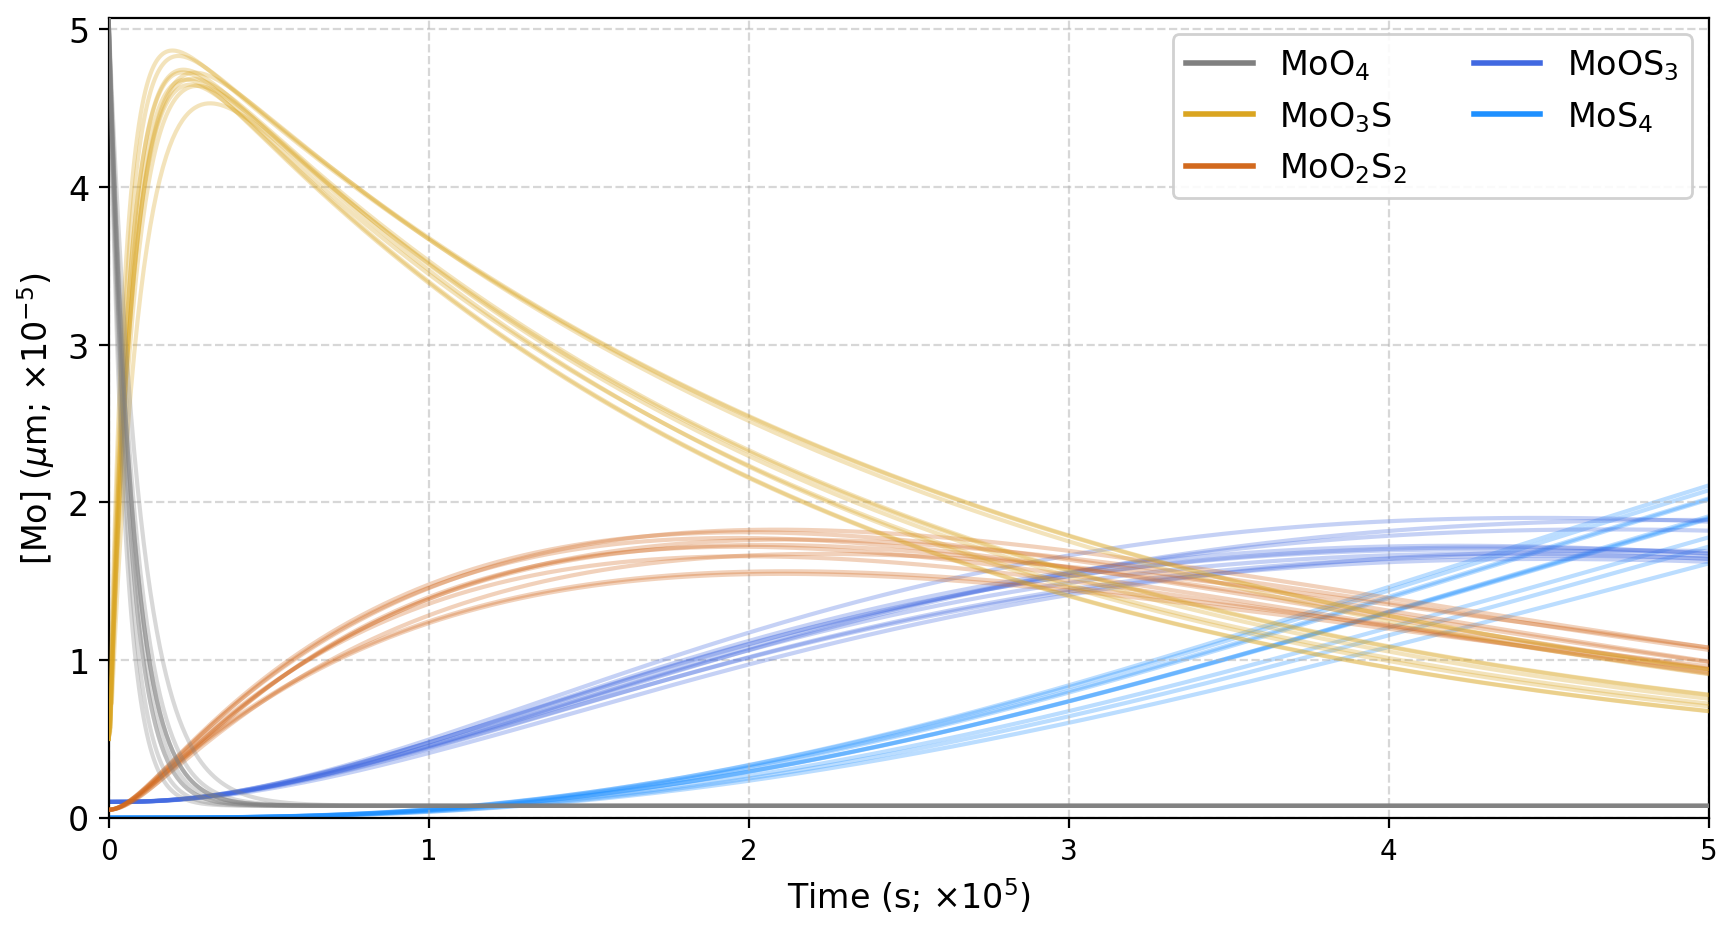
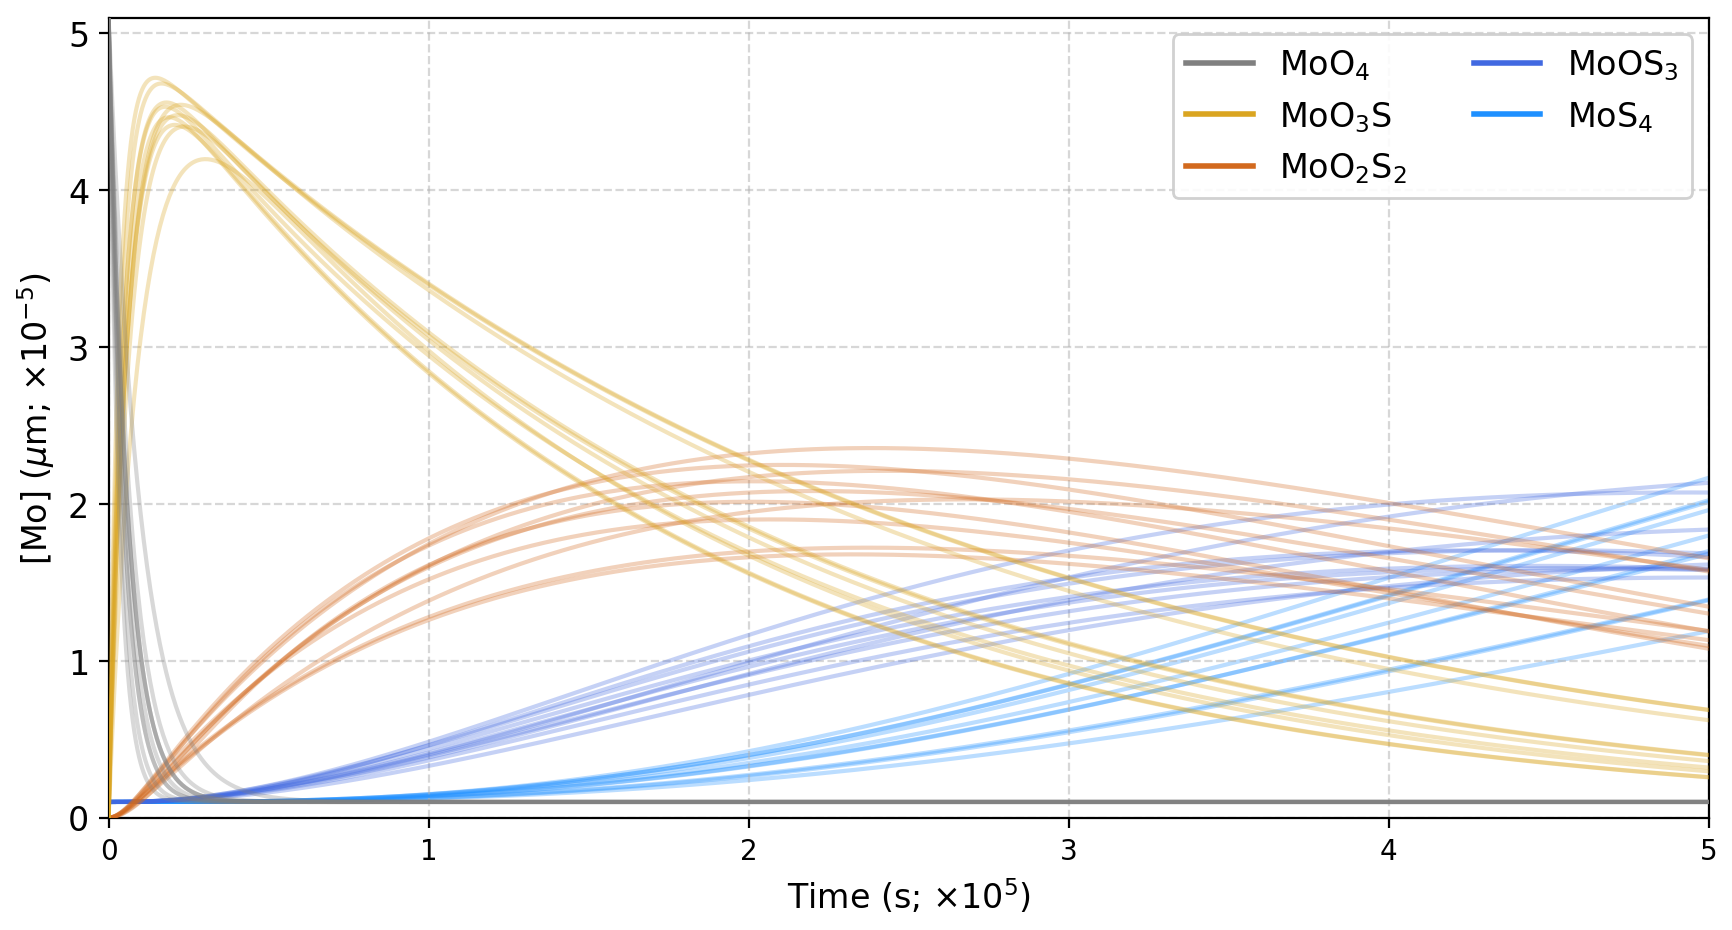
updated equations
more tweaks to the isotope calculations

Changed region(s): [[0.0312, 0.0312, 0.9977, 0.9043], [0.0312, 0.0312, 0.0624, 0.0624]]

diff --git a/kinetic_iso.py b/kinetic_iso.py
@@ -25,8 +25,13 @@ import pylab
 ###############################################################################
 ###############################################################################
 
-
+#get the number of runs for the model
 number_of_samples = int(input('number of iterations?  '))
+
+#get input from user to sulfide values
+User_Mo = float(input('estimated total Mo conc.?  '))
+User_Sulfide = float(input('estimated sulfide value?  '))
+User_pH = int(input('estimated pH value?  '))
 
 
 ###############################################################################
@@ -42,26 +47,27 @@ number_of_samples = int(input('number of iterations?  '))
 #reaction of some thiomolybdate(VI) anions in aqueous solution. Inorg. Chim. Acta
 #and Harmer & Sykes (1980). Kinetics of the Interconversion of Sulfido- and
 #Oxomolybdate(VI) Species MoOxS4-x2- in Aqueous Solutions. Inorganic Chemistry
+
 '''
-ki_low = 9e-5 #k_{01}
-kii_low = 9e-6 #k_{12}
-kiii_low = 9e-6 #k_{23}
-kiiii_low = 2e-5 #K_{34}
+ki_low = 1e-4 #k_{01}
+kii_low = 9e-5 #k_{12}
+kiii_low = 1e-5 #k_{23}
+kiiii_low = 1e-6 #K_{34}
 
 ki_hi = 2e-4
-kii_hi = 2e-5
-kiii_hi = 2e-5
-kiiii_hi = 5e-5
+kii_hi = 2e-4
+kiii_hi = 3e-5
+kiiii_hi = 5e-6
 '''
 
 ki_low = 1e-4 #k_{01}
 kii_low = 4e-6 #k_{12}
-kiii_low = 5e-6 #k_{23} 9e-7
-kiiii_low = 3e-6 #K_{34} 8e-7 #K_{34}
+kiii_low = 3e-6 #k_{23} 9e-7
+kiiii_low = 2e-6 #K_{34} 8e-7 #K_{34}
 
-ki_hi = 2e-4
-kii_hi = 5e-6
-kiii_hi = 6e-6
+ki_hi = 3e-4
+kii_hi = 6e-6
+kiii_hi = 5e-6
 kiiii_hi = 4e-6
 
 ki_range = np.linspace(ki_low,ki_hi,10)
@@ -69,15 +75,27 @@ kii_range = np.linspace(kii_low,kii_hi,10)
 kiii_range = np.linspace(kiii_low,kiii_hi,10)
 kiiii_range = np.linspace(kiiii_low,kiiii_hi,10)
 
-#note: no kv for E needed
-#note: ki>kii>kiii>kiiii
-
-#Fractionation factor derived from expertimental data
+#Fractionation factor calculated from expertimental data
 del_A = 0.05
 del_B = 0.59
 del_C = -0.17
 del_D = -0.15
 del_E = -0.32
+
+'''
+#calculate the influence of pH on the reaction rates
+ki_range =  ki_range * 2
+kii_range = kii_range * 2
+kiii_range = 1000000000 * User_pH**-14.61
+kiiii_range = 4508 * User_pH**-9.93
+'''
+
+#calculate the influence of sulfide on rate reations (Clarke and Laurie, 1987)
+sulfide_Mo_ratio = User_Sulfide / User_Mo
+ki_range =  ki_range * (0.427**sulfide_Mo_ratio / ki_range)
+kii_range = ki_range * (0.2999**sulfide_Mo_ratio / ki_range)
+kiii_range = kiii_range * sulfide_Mo_ratio
+kiiii_range = kiiii_range * sulfide_Mo_ratio
 
 ###############################################################################
 ###############################################################################
@@ -90,22 +108,36 @@ time_values = np.linspace(0, 500000, 1000)[0:]
 ###############################################################################
 ###############################################################################
 
+#creat artificial boundry for minimum concentration and maximum concentration
+A_min = User_Mo * 0.02
+A_max = User_Mo
+B_min = User_Mo * 0.02
+B_max = User_Mo
+C_min = User_Mo * 0.04
+C_max = User_Mo
+D_min = User_Mo * 0.02
+D_max = User_Mo
+E_min = User_Mo * 0.02
+E_max = User_Mo
+
+###############################################################################
+###############################################################################
+###############################################################################
+
 #Create functions to be called to compute the different chemical parameters
 
 def Mo_solver(Sig_S, eq, divtime, min, max):
-    A = A_o * np.exp(-ki*divtime)+min
+    A = A_o * np.exp(-ki*divtime) + min
 
-    B = min + np.divide((ki*A_o),(kii-ki)) * (np.exp(-ki*divtime)-np.exp(-kii*divtime))
-    if B < (2*min):
-        B += min
+    B = np.divide((ki*A_o),(kii-ki)) * (np.exp(-ki*divtime)-np.exp(-kii*divtime))
 
-    C = min + (np.divide((kii*ki*A_o),(kii-ki)) * \
+    C = (np.divide((kii*ki*A_o),(kii-ki)) * \
         ((np.divide(1,(kiii-ki)) * np.exp(-ki*divtime)) - \
         (np.divide(1,(kiii-kii)) * (np.exp(-kii*divtime))) + \
         (np.divide(1 ,(kiii-kii)) * (np.exp(-kiii*divtime))) - \
         (np.divide(1 ,(kiii-ki)) * (np.exp(-kiii*divtime)))))
 
-    D = min + np.divide((kiii*kii*ki*A_o), (kii-ki))  * \
+    D = min + (np.divide((kiii*kii*ki*A_o), (kii-ki))  * \
         ((np.divide(1, ((kiii-ki)*(kiiii-ki))) * np.exp(-ki*divtime)) - \
         (np.divide(1, ((kiii-kii)*(kiiii-kii))) * np.exp(-kii*divtime)) + \
         (np.divide(1, ((kiii-kii)*(kiiii-kiii))) * np.exp(-kiii*divtime)) - \
@@ -113,9 +145,9 @@ def Mo_solver(Sig_S, eq, divtime, min, max):
         (np.divide(1, ((kiii-ki)*(kiiii-ki))) * np.exp(-kiiii*divtime)) + \
         (np.divide(1, ((kiii-kii)*(kiiii-kii))) * np.exp(-kiiii*divtime)) - \
         (np.divide(1, ((kiii-kii)*(kiiii-kiii))) * np.exp(-kiiii*divtime)) + \
-        (np.divide(1, ((kiii-ki)*(kiiii-kiii))) * np.exp(-kiiii*divtime)))
+        (np.divide(1, ((kiii-ki)*(kiiii-kiii))) * np.exp(-kiiii*divtime))))
 
-    E = A_o + (np.divide((kiiii*kiii*kii*ki*A_o), (kii-ki)) * \
+    E = min + A_o + (np.divide((kiiii*kiii*kii*ki*A_o), (kii-ki)) * \
         (np.divide(np.exp(-ki*divtime), ((kiii-ki)*(kiiii-ki)*-ki)) - \
         np.divide(np.exp(-kii*divtime), ((kiii-kii)*(kiiii-kii)*-kii)) + \
         np.divide(np.exp(-kiii*divtime), ((kiii-kii)*(kiiii-kiii)*-kiii)) - \
@@ -148,16 +180,19 @@ def Mo_iso_solver(species, divtime, mole_ratio):
         calc = (-3e-13 * divtime**2 + 1e-7 * divtime + 0.0419) / mole_ratio
         return calc
     if species == 'B':
-        calc = (-1e-6 * divtime + 0.9711) / mole_ratio
+        calc = (-4e-12 * divtime**2 + 1e-06 * divtime + 0.6516) / mole_ratio
+        #calc = (-1e-6 * divtime + 0.9711) / mole_ratio
         return calc
     if species == 'C':
-        calc = (3e-6 * divtime - 0.7303) / mole_ratio
+        #calc = (divtime**2 - 1E-05 * divtime + 0.01) / mole_ratio
+        calc = (-4e-12 * divtime**2 + 4e-06 * divtime - 0.7475) / mole_ratio
+        #calc = (3e-6 * divtime - 0.7303) / mole_ratio
         return calc
     if species == 'D':
         calc = (2e-12 * divtime**2 - 2e-6 * divtime - 0.042) / mole_ratio
         return calc
     if species == 'E':
-        calc = (-1e-6 * divtime - 0.0274) / mole_ratio
+        calc = (4e-13 * divtime**2 - 1e-06 * divtime - 0.0172) / mole_ratio
         return calc
     else:
         return
@@ -171,7 +206,6 @@ def Mo_mole_frac(input):
     Mo_calc = input/User_Mo
     return Mo_calc
 
-
 ###############################################################################
 ###############################################################################
 ###############################################################################
@@ -181,28 +215,9 @@ def Mo_mole_frac(input):
 #we are setting a seed for randomization for testing and ensuring we get same random results every time.
 #we are bootstrapping, allowing for values to get called more than once with numpy's random choice
 
-#get input from user to sulfide values
-User_Mo = float(input('estimated total Mo conc.?  '))
-User_Sulfide = float(input('estimated sulfide value?  '))
-User_pH = int(input('estimated pH value?  '))
-
 Ao_realvalues = []
 for z in time_values:
     Ao_realvalues.append(User_Mo)
-
-'''
-if User_pH < 7:
-    ki_range = ki_range * 2
-    kii_range = kii_range * 2
-    kiii_range = kiii_range * 2
-    kiiii_range = kiiii_range * 2
-
-if User_pH > 7:
-    ki_range = ki_range / 2
-    kii_range = kii_range / 2
-    kiii_range = kiii_range / 2
-    kiiii_range = kiiii_range / 2
-'''
 
 np.random.seed(0)
 rand_ki = np.array([np.random.choice(10) for i in range(number_of_samples)])
@@ -244,18 +259,6 @@ S_tot = 5e-5 * 10
 #add noise to the sulfide values
 Sulfide_low = User_Sulfide / 1.1
 Sulfide_high = User_Sulfide * 1.1
-
-#creat artificial boundry for minimum concentration and maximum concentration
-A_min = User_Mo * 0.015
-A_max = User_Mo
-B_min = User_Mo * 0.05
-B_max = User_Mo
-C_min = User_Mo * 0.01
-C_max = User_Mo
-D_min = User_Mo * 0.02
-D_max = User_Mo
-E_min = User_Mo * 0.013
-E_max = User_Mo
 
 #set the distribution of possible sulfide values
 Rand_Sulfide = np.array([np.random.uniform(Sulfide_low, Sulfide_high) for i in range(number_of_samples)])
@@ -469,7 +472,7 @@ plt.plot(time_hours[:50], -np.log(D_solutions[0][:50]), c='royalblue', zorder=2,
 #plt.plot(time_hours[50:], np.log(E_solutions[0][50:]), c='dodgerblue', zorder=1, alpha=1)
 
 plt.savefig('ln_C.png', bbox_inches='tight', pad_inches=0.075, dpi=200, alpha=0.004)
-plt.show()
+#plt.show()
 plt.close()
 
 
@@ -524,7 +527,7 @@ ax.set_yticklabels(['0','10','30','50','80','100'], fontsize=12)
 ax.grid(which='major', axis='both', linestyle='--', alpha=0.5)
 
 plt.savefig('image_ratio.png', bbox_inches='tight', pad_inches=0.075, dpi=200, alpha=0.004)
-plt.show()
+#plt.show()
 plt.close()
 
 
@@ -535,7 +538,7 @@ plt.close()
 
 plt.hist(dominant_species, bins=1)
 plt.savefig('image_hist.png', bbox_inches='tight', pad_inches=0.075, dpi=200, alpha=0.004)
-plt.show()
+#plt.show()
 plt.close()
 
 
